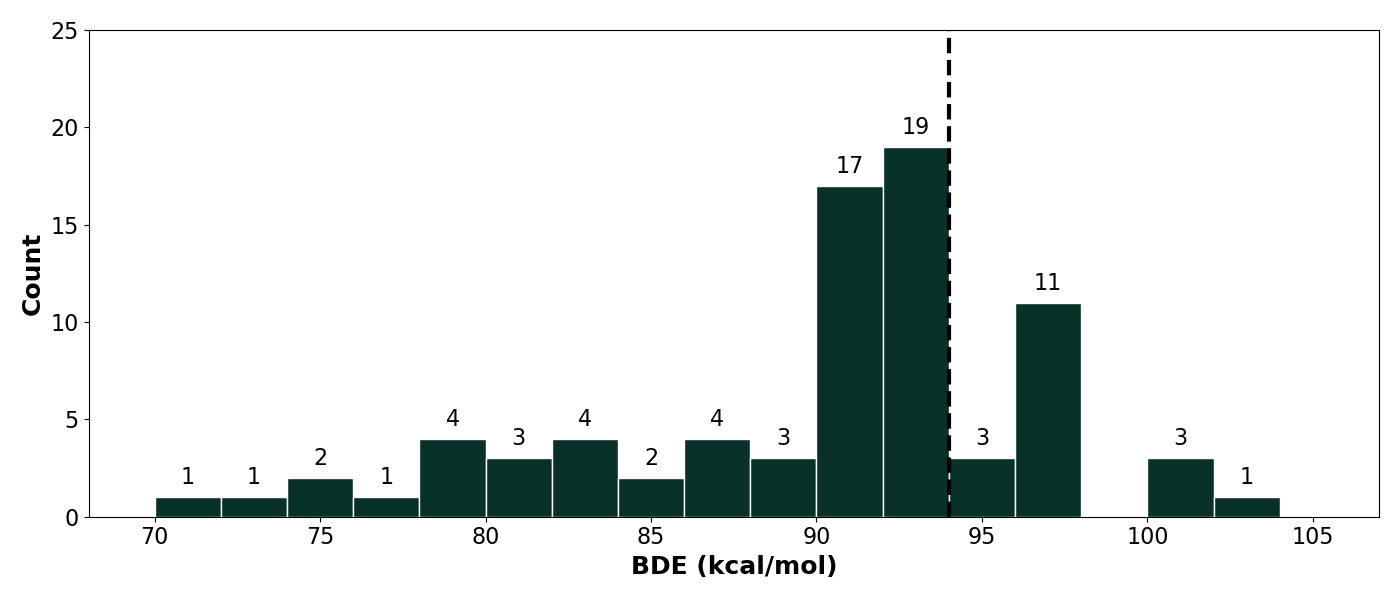
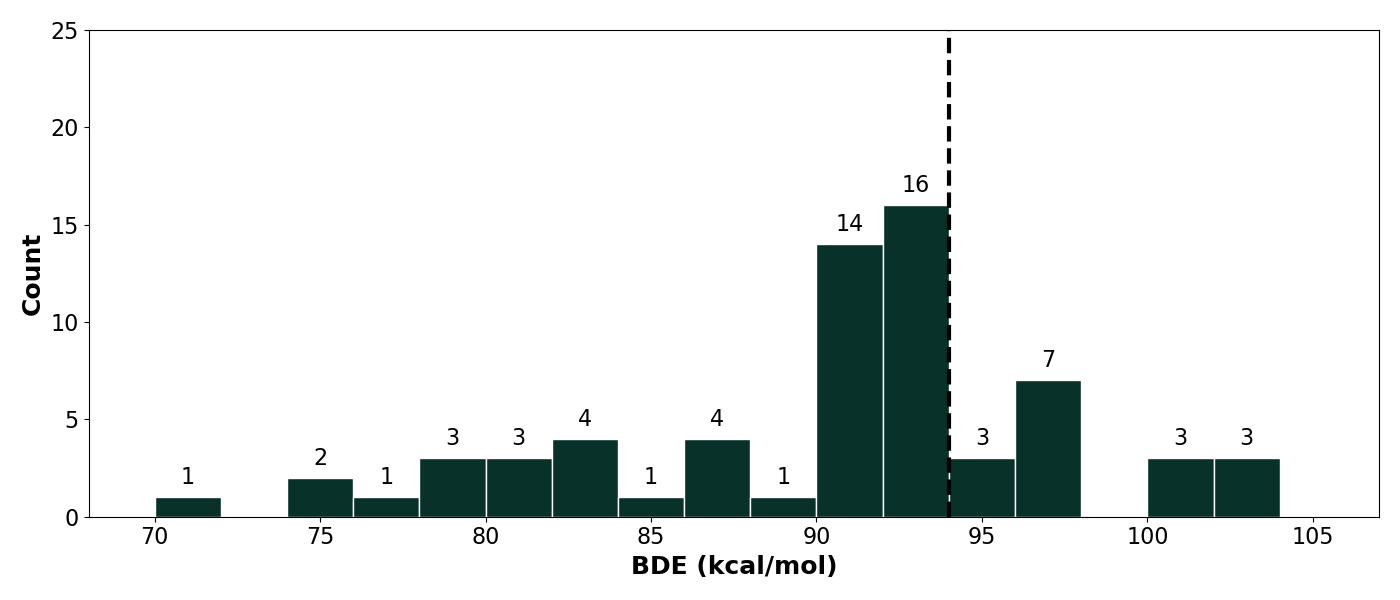
checkpoint

diff --git a/04_statistics/gen_1/01_bde_distribution.py b/04_statistics/gen_1/01_bde_distribution.py
@@ -3,19 +3,12 @@ import pandas as pd
 
 
 # Load the dataset
-dataset = pd.read_csv("../../data/dataset/dataset_merck_all.csv")
+dataset = pd.read_csv("../../data/dataset/dataset_merck_bde.csv")
 
 dataset = dataset[dataset["bde"].notna()]
+som_df = dataset[dataset["primary_som"] == 1]
 
-primary_som_df = dataset[dataset["primary_som"] == 1]
-secondary_som_df = dataset[dataset["secondary_som"] == 1]
-tertiary_som_df = dataset[dataset["tertiary_som"] == 1]
-som_df = pd.concat([primary_som_df, secondary_som_df, tertiary_som_df])
-non_som_df = dataset[
-    (dataset["primary_som"] == 0)
-    & (dataset["secondary_som"] == 0)
-    & (dataset["tertiary_som"] == 0)
-]
+non_som_df = dataset[dataset["primary_som"] == 0]
 
 print(f"number of SOM sites: {len(som_df)}")
 print(f"number of non SOM sites: {len(non_som_df)}")

diff --git a/04_statistics/gen_1/02_relative_ir_distribution.py b/04_statistics/gen_1/02_relative_ir_distribution.py
@@ -3,19 +3,12 @@ import pandas as pd
 
 
 # Load the dataset
-dataset = pd.read_csv("../../data/dataset/dataset_merck_all.csv")
+dataset = pd.read_csv("../../data/dataset/dataset_merck_bde.csv")
 
 dataset = dataset[dataset["bde"].notna()]
+som_df = dataset[dataset["primary_som"] == 1]
 
-primary_som_df = dataset[dataset["primary_som"] == 1]
-secondary_som_df = dataset[dataset["secondary_som"] == 1]
-tertiary_som_df = dataset[dataset["tertiary_som"] == 1]
-som_df = pd.concat([primary_som_df, secondary_som_df, tertiary_som_df])
-non_som_df = dataset[
-    (dataset["primary_som"] == 0)
-    & (dataset["secondary_som"] == 0)
-    & (dataset["tertiary_som"] == 0)
-]
+non_som_df = dataset[dataset["primary_som"] == 0]
 
 print(f"number of SOM sites: {len(som_df)}")
 print(f"number of non SOM sites: {len(non_som_df)}")

diff --git a/04_statistics/gen_1/03_sasa_distribution.py b/04_statistics/gen_1/03_sasa_distribution.py
@@ -3,19 +3,12 @@ import pandas as pd
 
 
 # Load the dataset
-dataset = pd.read_csv("../../data/dataset/dataset_merck_all.csv")
+dataset = pd.read_csv("../../data/dataset/dataset_merck_bde.csv")
 
 dataset = dataset[dataset["bde"].notna()]
 
-primary_som_df = dataset[dataset["primary_som"] == 1]
-secondary_som_df = dataset[dataset["secondary_som"] == 1]
-tertiary_som_df = dataset[dataset["tertiary_som"] == 1]
-som_df = pd.concat([primary_som_df, secondary_som_df, tertiary_som_df])
-non_som_df = dataset[
-    (dataset["primary_som"] == 0)
-    & (dataset["secondary_som"] == 0)
-    & (dataset["tertiary_som"] == 0)
-]
+som_df = dataset[dataset["primary_som"] == 1]
+non_som_df = dataset[dataset["primary_som"] == 0]
 
 print(f"number of SOM sites: {len(som_df)}")
 print(f"number of non SOM sites: {len(non_som_df)}")
